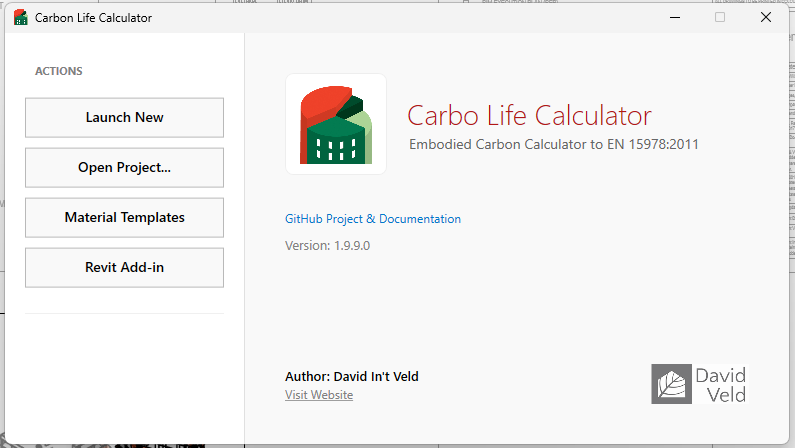
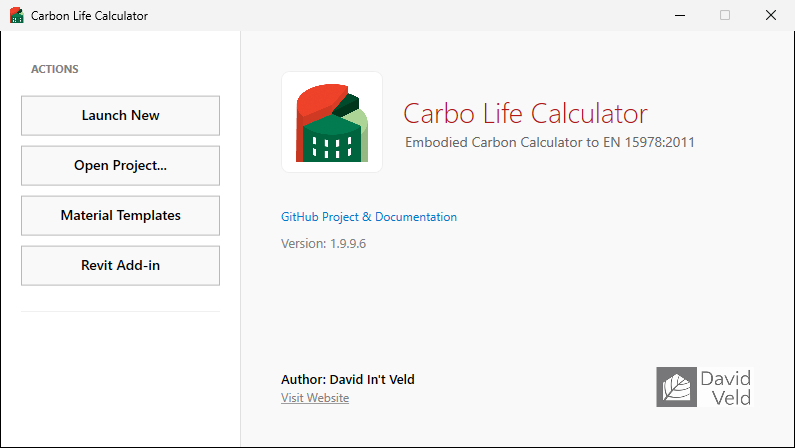
Retake README and wiki screenshots; fix blank D/Sequestration in the Material Editor
Screenshots (CarboLifeCalc/img/scr, same filenames, so the README and
wiki links pick them up from master):
- Retaken from the 1.9.9.6 build, filled from the shipped data: the R25
  (Snowdon Towers) and R23 (Sample House) samples, the IStructE 3.0
  database and the default UserMaterials template.
- screenshot1, screenshot2, revit2, revit3, activate, materialeditor1,
  materials02/03/03b/04/07 and caboCircle_Demo0, with the highlight
  boxes redrawn where the old ones had them.
- revit3 is 1600 px wide instead of 1357: at the window's minimum width
  the Sample House legend squeezes the material pie to almost nothing.
- Composites over Revit, Excel or Grasshopper (screenshot3, materials05/06,
  screenshot6-9, the CarboCircle demos) are unchanged.

Material Editor:
- The Out of Scope [D], Sequestration and Additional boxes carried a
  leftover Text="{Binding Text, Delay=1000}" with no data context behind
  it, which blanked them after the window loaded. Apply Values then read
  the empty boxes and saved D and Sequestration as 0: Aluminium's D went
  from -3.21 to 0 and its ECI from 3.89 to 7.10. The binding is removed;
  the values show and survive Apply.

diff --git a/CarboLifeUI/UI/MaterialEditor.xaml b/CarboLifeUI/UI/MaterialEditor.xaml
@@ -324,8 +324,7 @@
                                      Margin="2,3" IsReadOnly="True" Style="{StaticResource flatTextBox}"/>
                             <TextBox Name="txt_D" Grid.Row="6" Grid.Column="2"
                                      Margin="2,3" Style="{StaticResource flatTextBox}"
-                                     LostFocus="txt_D_TextChanged"
-                                     Text="{Binding Text, Delay=1000}"/>
+                                     LostFocus="txt_D_TextChanged"/>
                             <CheckBox Name="chx_D_Manual" Grid.Row="6" Grid.Column="3"
                                       VerticalAlignment="Center" HorizontalAlignment="Center"
                                       Click="chx_D_Manual_Click"/>
@@ -340,8 +339,7 @@
                                      Margin="2,3" Style="{StaticResource flatTextBox}"/>
                             <TextBox Name="txt_Seq" Grid.Row="7" Grid.Column="2"
                                      Margin="2,3" Style="{StaticResource flatTextBox}"
-                                     LostFocus="txt_Seq_TextChanged"
-                                     Text="{Binding Text, Delay=1000}"/>
+                                     LostFocus="txt_Seq_TextChanged"/>
                             <CheckBox Name="chx_Seq_Manual" Grid.Row="7" Grid.Column="3"
                                       VerticalAlignment="Center" HorizontalAlignment="Center"
                                       Click="chx_Seq_Manual_Click"/>
@@ -358,8 +356,7 @@
                                      LostFocus="txt_Mix_Setting_TextChanged"/>
                             <TextBox Name="txt_Mix" Grid.Row="8" Grid.Column="2"
                                      Margin="2,3" Style="{StaticResource flatTextBox}"
-                                     LostFocus="txt_Mix_TextChanged"
-                                     Text="{Binding Text, Delay=1000}"/>
+                                     LostFocus="txt_Mix_TextChanged"/>
                             <Button Name="btn_Mix" Grid.Row="8" Grid.Column="4"
                                     Content="Edit..." Margin="2,3" Style="{StaticResource ButtonStyle}"
                                     Click="btn_Mix_Click"/>
